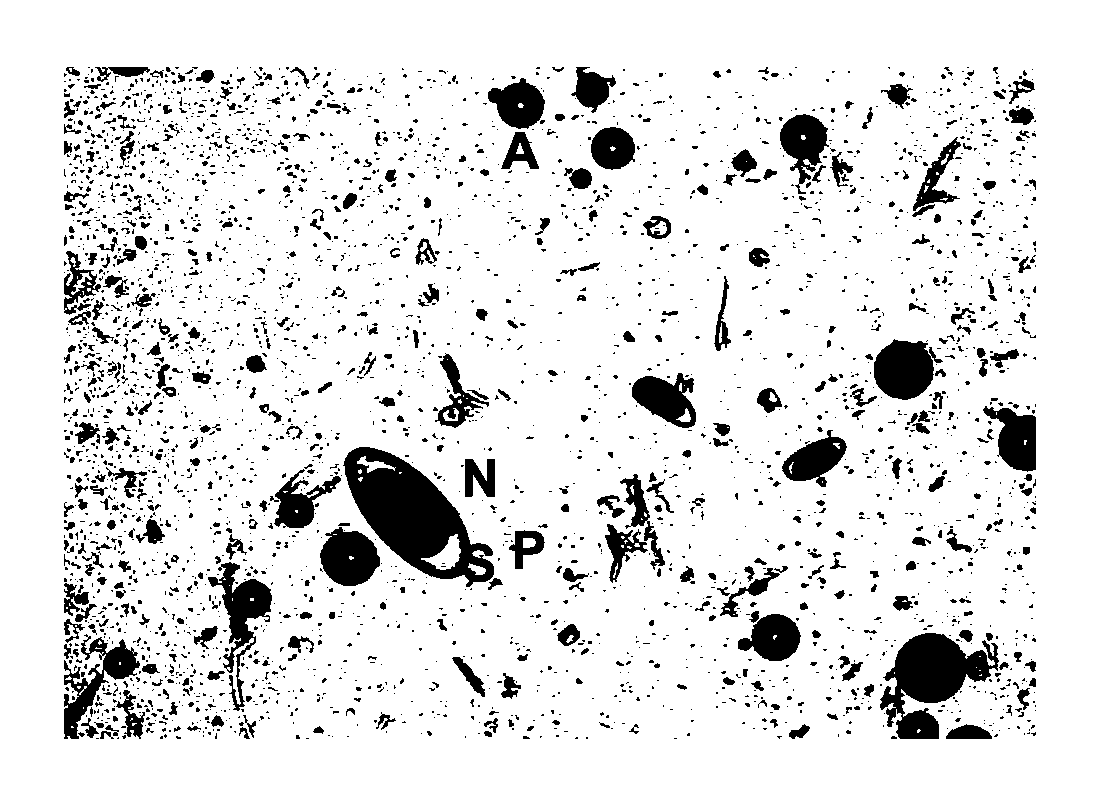
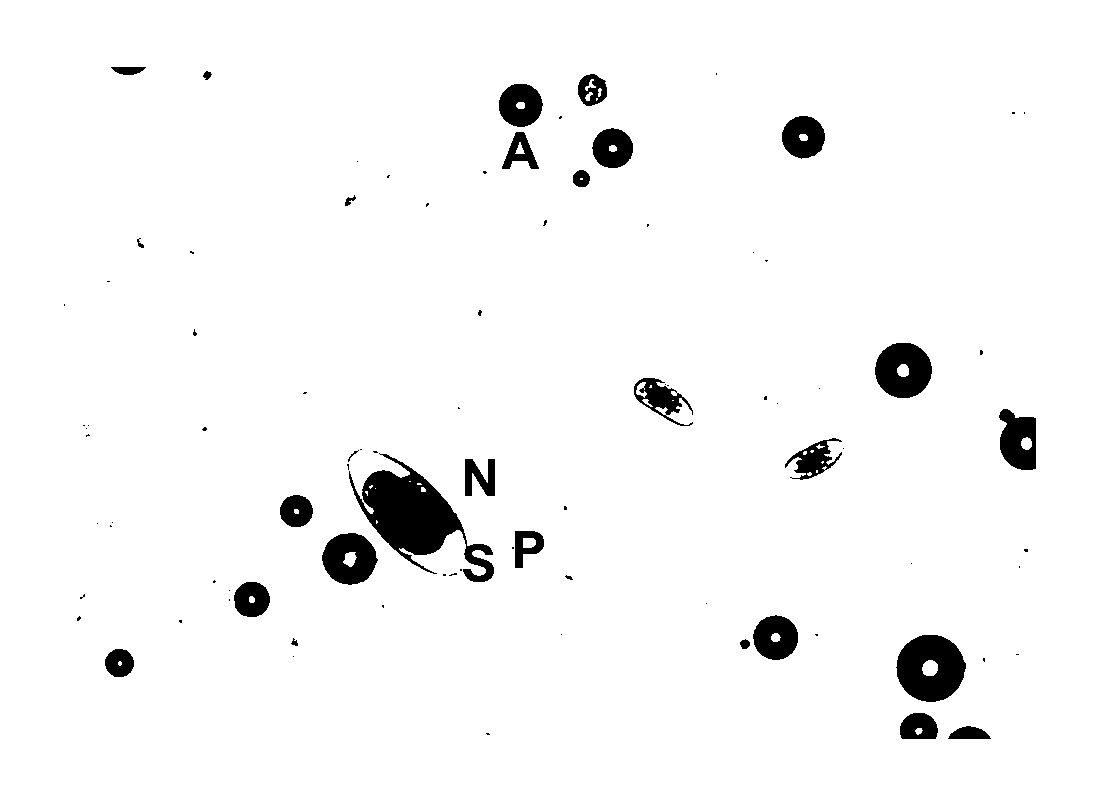
Added Annotation Reading for Three Images

diff --git a/main.py b/main.py
@@ -1,82 +1,24 @@
 import cv2, sys
 import numpy as np
 from imageHelper import pad, pad_all
-
-from ellipseDetector import ellipseDetector
-
-def getBestEllipse(ellipseHelper, Contour):
-    return ellipseHelper.fitEllipse_Polygon(Contour)
-
-def getBinaryThreshold(gray_image, threshold):
-    #OTSU METHOD
-    #return cv2.threshold(gray_image, 0, 255, cv2.THRESH_BINARY+cv2.THRESH_OTSU)[1]
-    
-    #TRADITIONAL METHOD
-    return cv2.threshold(gray_image, threshold, 255, cv2.THRESH_BINARY)[1] 
+from detect import detectParasites
 
 
 def main():
-    saveImages = True
-    displayImages = True
-    
-    
-    
     fileName = "unlabeled3.jpg"
     thresh = 210
+    outFile = ""
     
     for i in range(0, len(sys.argv)):
         if (sys.argv[i] == "-f"):
             fileName = sys.argv[i+1]
         elif (sys.argv[i] == "-t"):
             thresh = int(sys.argv[i+1])
+        elif (sys.argv[i] == "-o"):
+            outFile = sys.argv[i+1]
+            
+    detectParasites(fileName, thresh, outFile, True)
     
-    im_gray = cv2.imread(fileName, cv2.IMREAD_GRAYSCALE)
-    
-    binary = getBinaryThreshold(im_gray, thresh)
-    
-    
-    #Otsu Test Can Be Implemented to Guess Threshold Values#
-    #
-    
-    
-    
-    contourImage = cv2.imread(fileName)
-    ellipseImage = cv2.imread(fileName)
-    
-    #print(binary.shape)
-    #print(contourImage.shape)
-    #print(contourImage)
-    
-    im_gray, binary, contourImage, ellipseImage = pad_all([im_gray, binary, contourImage, ellipseImage])
-    
-    if (saveImages): cv2.imwrite("imThresh.png", binary)
-    
-    #print(binary)
-    #print(binary.shape, contourImage.shape)
-    
-    contours = cv2.findContours(binary, cv2.RETR_TREE, cv2.CHAIN_APPROX_SIMPLE)[0]
-    #Filter Contour Areas
-    
-    cv2.drawContours(contourImage, contours, -1, (0,0,0), 3)
-    if (saveImages): cv2.imwrite("imContours.png", contourImage);
-    
-    #print("savedContours");
-    #print(len(contours));
-    
-    num_eggs = 0
-    
-    ellipseHelper = ellipseDetector()
-    for contour in contours: 
-        if len(contour)>=5:
-            bestEllipse = getBestEllipse(ellipseHelper, contour)
-            if not bestEllipse == None: 
-                cv2.ellipse(ellipseImage, bestEllipse, (0,0,255), 3)
-                num_eggs+=1
-    
-    cv2.imwrite("imParasites.png", ellipseImage);
-    print("Seen: %d" % num_eggs)
-    print("Eggs Per Gram: %d" % (num_eggs * 50))
-    
-    
+      
 if __name__=="__main__":
     main()

diff --git a/detect.py b/detect.py
@@ -1,0 +1,65 @@
+import cv2, sys
+import numpy as np
+from imageHelper import pad, pad_all
+
+from ellipseDetector import ellipseDetector
+
+def getBestEllipse(ellipseHelper, Contour):
+    return ellipseHelper.fitEllipse_Polygon(Contour)
+
+def getBinaryThreshold(gray_image, threshold):
+    #OTSU METHOD
+    return cv2.threshold(gray_image, 0, 255, cv2.THRESH_BINARY+cv2.THRESH_OTSU)[1]
+    
+    #TRADITIONAL METHOD
+    #return cv2.threshold(gray_image, threshold, 255, cv2.THRESH_BINARY)[1] 
+
+def detectParasites(fileName, thresh, outFile = "", saveImages = True, ):
+    
+    im_gray = cv2.imread(fileName, cv2.IMREAD_GRAYSCALE)
+    
+    binary = getBinaryThreshold(im_gray, thresh)
+
+    contourImage = cv2.imread(fileName)
+    ellipseImage = cv2.imread(fileName)
+    
+    #print(binary.shape)
+    #print(contourImage.shape)
+    #print(contourImage)
+    
+    im_gray, binary, contourImage, ellipseImage = pad_all([im_gray, binary, contourImage, ellipseImage])
+    
+    if (saveImages): cv2.imwrite("imThresh.png", binary)
+    
+    #print(binary)
+    #print(binary.shape, contourImage.shape)
+    
+    contours = cv2.findContours(binary, cv2.RETR_TREE, cv2.CHAIN_APPROX_SIMPLE)[0]
+    #Filter Contour Areas
+    
+    cv2.drawContours(contourImage, contours, -1, (0,0,0), 3)
+    if (saveImages): cv2.imwrite("imContours.png", contourImage);
+    
+    #print("savedContours");
+    #print(len(contours));
+    
+    num_eggs = 0
+    
+    ellipseHelper = ellipseDetector()
+    for contour in contours: 
+        if len(contour)>=5:
+            bestEllipse = getBestEllipse(ellipseHelper, contour)
+            if not bestEllipse == None: 
+                cv2.ellipse(ellipseImage, bestEllipse, (0,0,255), 3)
+                num_eggs+=1
+    
+    if (saveImages):
+        if outFile == "":
+            cv2.imwrite("imParasites.png", ellipseImage);
+        else: 
+            cv2.imwrite(outFile, ellipseImage);
+        
+    
+        
+    print("Seen: %d" % num_eggs)
+    print("Eggs Per Gram: %d" % (num_eggs * 50))

diff --git a/test.py b/test.py
@@ -1,0 +1,26 @@
+import tkinter as tk
+from PIL import Image, ImageTk
+from matplotlib.backends.backend_tkagg import FigureCanvasTkAgg
+from matplotlib.figure import Figure
+import numpy as np
+import cv2
+from matplotlib.animation import FuncAnimation
+import sys
+
+ImageFiles = ["letter2.png", "unlabeled3.jpeg", "arrows1.jpeg"]
+Images = []
+
+for fileName in ImageFiles:
+    testImg = cv2.imread(fileName)
+    
+    with open(fileName+".txt", "r") as annotationFile: 
+        for line in annotationFile: 
+            cX, cY, width, height = line.split()
+            topLeft = (cX-width/2, cY-height/2)
+            bottomRight = (cX+width/2, cY+height/2)
+            testImg = cv2.rectangle(testImg, topLeft, bottomRight, (0,200,0), 3)
+
+    Images.append(testImg, fileName)
+    cv2.imshow("TEST", testImg)
+    cv2.waitKey(0)
+    cv2.destroyAllWindows()
